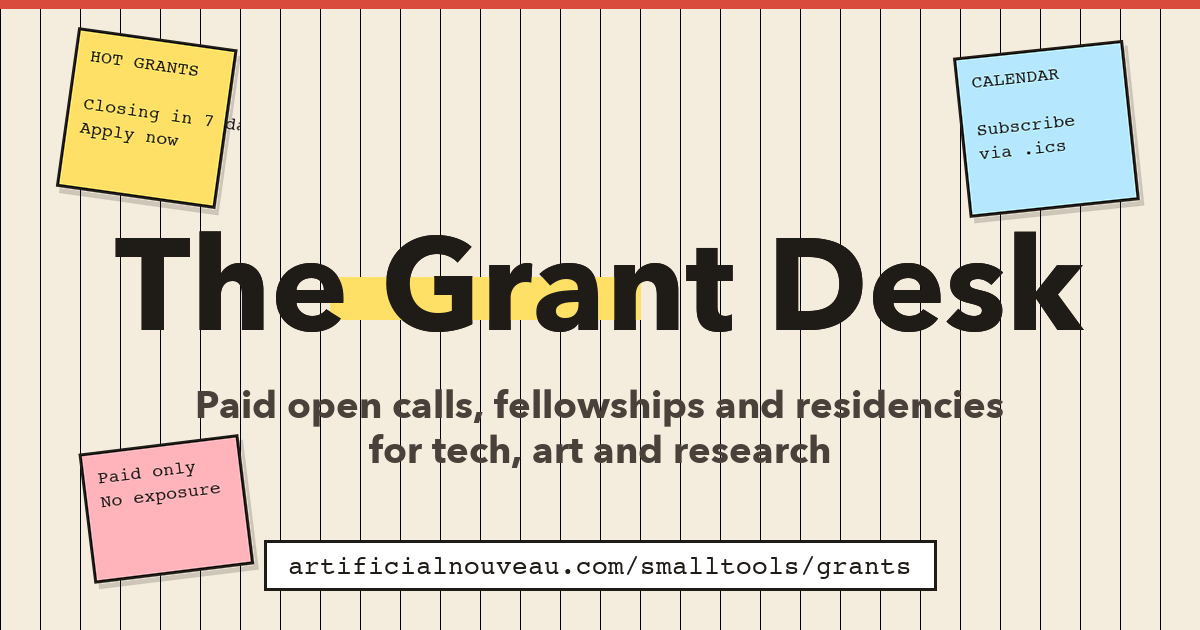
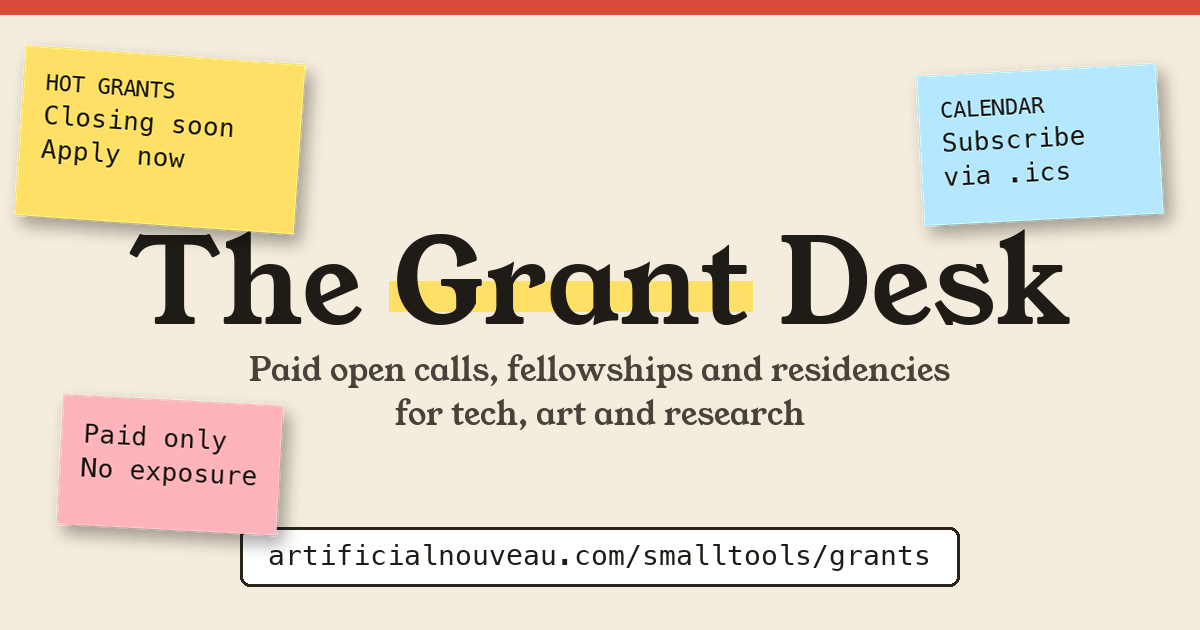
Grant Desk: regenerate OG image - drop background rule lines, use 'Closing soon' so text fits in Hot Grants post-it; add reusable Pillow generator script

Changed region(s): [[0.0, 0.0, 1.0, 0.9651]]

diff --git a/smalltools/grants/generate_og_image.py b/smalltools/grants/generate_og_image.py
@@ -1,0 +1,170 @@
+#!/usr/bin/env python3
+"""Generate og-image.png for The Grant Desk.
+
+1200x630, paper background (no rule lines), title with yellow highlight under
+'Grant', URL pill at the bottom, and three slightly-rotated sticky notes.
+
+Run: python3 smalltools/grants/generate_og_image.py
+"""
+from pathlib import Path
+from PIL import Image, ImageDraw, ImageFont, ImageFilter
+
+HERE = Path(__file__).parent
+REPO = HERE.parent.parent
+
+PAPER = (244, 236, 220)
+INK = (31, 27, 22)
+INK_SOFT = (74, 65, 58)
+LINE = (42, 36, 29)
+HOT = (217, 75, 60)
+STICKY_YELLOW = (255, 224, 102)
+STICKY_PINK = (255, 179, 186)
+STICKY_BLUE = (181, 232, 255)
+WHITE = (255, 255, 255)
+
+WIDTH, HEIGHT = 1200, 630
+
+SERIF_PATH = str(REPO / "assets/fonts/YoungSerif-Regular.ttf")
+MONO_CANDIDATES = [
+    "/System/Library/Fonts/Menlo.ttc",
+    "/System/Library/Fonts/Monaco.ttf",
+]
+
+
+def serif(size: int) -> ImageFont.FreeTypeFont:
+    return ImageFont.truetype(SERIF_PATH, size)
+
+
+def mono(size: int) -> ImageFont.FreeTypeFont:
+    for path in MONO_CANDIDATES:
+        if Path(path).exists():
+            try:
+                return ImageFont.truetype(path, size)
+            except Exception:
+                continue
+    return ImageFont.load_default()
+
+
+def text_size(draw: ImageDraw.ImageDraw, text: str, font) -> tuple[int, int]:
+    bbox = draw.textbbox((0, 0), text, font=font)
+    return bbox[2] - bbox[0], bbox[3] - bbox[1]
+
+
+def draw_sticky(
+    canvas: Image.Image,
+    *,
+    pos: tuple[int, int],
+    size: tuple[int, int],
+    color: tuple[int, int, int],
+    lines: list[tuple[str, int]],
+    angle: float,
+    text_color: tuple[int, int, int] = INK,
+) -> None:
+    """Render a sticky note off-canvas, rotate it, paste with a soft shadow."""
+    w, h = size
+    sticky = Image.new("RGBA", (w, h), color + (255,))
+    sd = ImageDraw.Draw(sticky)
+    pad_x, pad_top, line_gap = 22, 22, 8
+    y = pad_top
+    for text, font_size in lines:
+        f = mono(font_size)
+        sd.text((pad_x, y), text, font=f, fill=text_color)
+        y += font_size + line_gap
+
+    pad = 40
+    backing = Image.new("RGBA", (w + pad * 2, h + pad * 2), (0, 0, 0, 0))
+    shadow = Image.new("RGBA", backing.size, (0, 0, 0, 0))
+    sh_draw = ImageDraw.Draw(shadow)
+    sh_draw.rectangle((pad + 6, pad + 8, pad + w + 6, pad + h + 8), fill=(0, 0, 0, 90))
+    shadow = shadow.filter(ImageFilter.GaussianBlur(radius=8))
+    backing.alpha_composite(shadow)
+    backing.paste(sticky, (pad, pad), sticky)
+
+    rotated = backing.rotate(angle, resample=Image.BICUBIC, expand=True)
+    cx, cy = pos
+    px = cx - rotated.size[0] // 2
+    py = cy - rotated.size[1] // 2
+    canvas.alpha_composite(rotated, (px, py))
+
+
+def main() -> int:
+    img = Image.new("RGBA", (WIDTH, HEIGHT), PAPER + (255,))
+    draw = ImageDraw.Draw(img)
+
+    draw.rectangle((0, 0, WIDTH, 14), fill=HOT)
+
+    title_font = serif(118)
+    title = "The Grant Desk"
+    tw, th = text_size(draw, title, title_font)
+    tx = (WIDTH - tw) // 2
+    ty = 200
+
+    pre = "The "
+    pre_w = text_size(draw, pre, title_font)[0]
+    grant_w = text_size(draw, "Grant", title_font)[0]
+    hl_x0 = tx + pre_w - 4
+    hl_x1 = hl_x0 + grant_w + 8
+    hl_h = 30
+    hl_y0 = ty + th - hl_h + 14
+    hl_y1 = ty + th + 14
+    draw.rectangle((hl_x0, hl_y0, hl_x1, hl_y1), fill=STICKY_YELLOW)
+
+    draw.text((tx, ty), title, font=title_font, fill=INK)
+
+    sub_font = serif(32)
+    subtitle = [
+        "Paid open calls, fellowships and residencies",
+        "for tech, art and research",
+    ]
+    sy = ty + th + 50
+    for line in subtitle:
+        lw = text_size(draw, line, sub_font)[0]
+        draw.text(((WIDTH - lw) // 2, sy), line, font=sub_font, fill=INK_SOFT)
+        sy += 44
+
+    url = "artificialnouveau.com/smalltools/grants"
+    url_font = mono(28)
+    uw, uh = text_size(draw, url, url_font)
+    pad_x, pad_y = 28, 16
+    pw = uw + pad_x * 2
+    ph = uh + pad_y * 2
+    px = (WIDTH - pw) // 2
+    py = HEIGHT - ph - 44
+    draw.rounded_rectangle(
+        (px, py, px + pw, py + ph), radius=10, fill=WHITE, outline=LINE, width=3
+    )
+    draw.text((px + pad_x, py + pad_y - 4), url, font=url_font, fill=INK)
+
+    draw_sticky(
+        img,
+        pos=(160, 140),
+        size=(280, 170),
+        color=STICKY_YELLOW,
+        lines=[("HOT GRANTS", 22), ("Closing soon", 26), ("Apply now", 26)],
+        angle=-4,
+    )
+    draw_sticky(
+        img,
+        pos=(WIDTH - 160, 145),
+        size=(240, 150),
+        color=STICKY_BLUE,
+        lines=[("CALENDAR", 22), ("Subscribe", 26), ("via .ics", 26)],
+        angle=3,
+    )
+    draw_sticky(
+        img,
+        pos=(170, HEIGHT - 165),
+        size=(220, 130),
+        color=STICKY_PINK,
+        lines=[("Paid only", 26), ("No exposure", 26)],
+        angle=-3,
+    )
+
+    out = HERE / "og-image.png"
+    img.convert("RGB").save(out, "PNG", optimize=True)
+    print(f"Wrote {out} ({out.stat().st_size:,} bytes)")
+    return 0
+
+
+if __name__ == "__main__":
+    raise SystemExit(main())